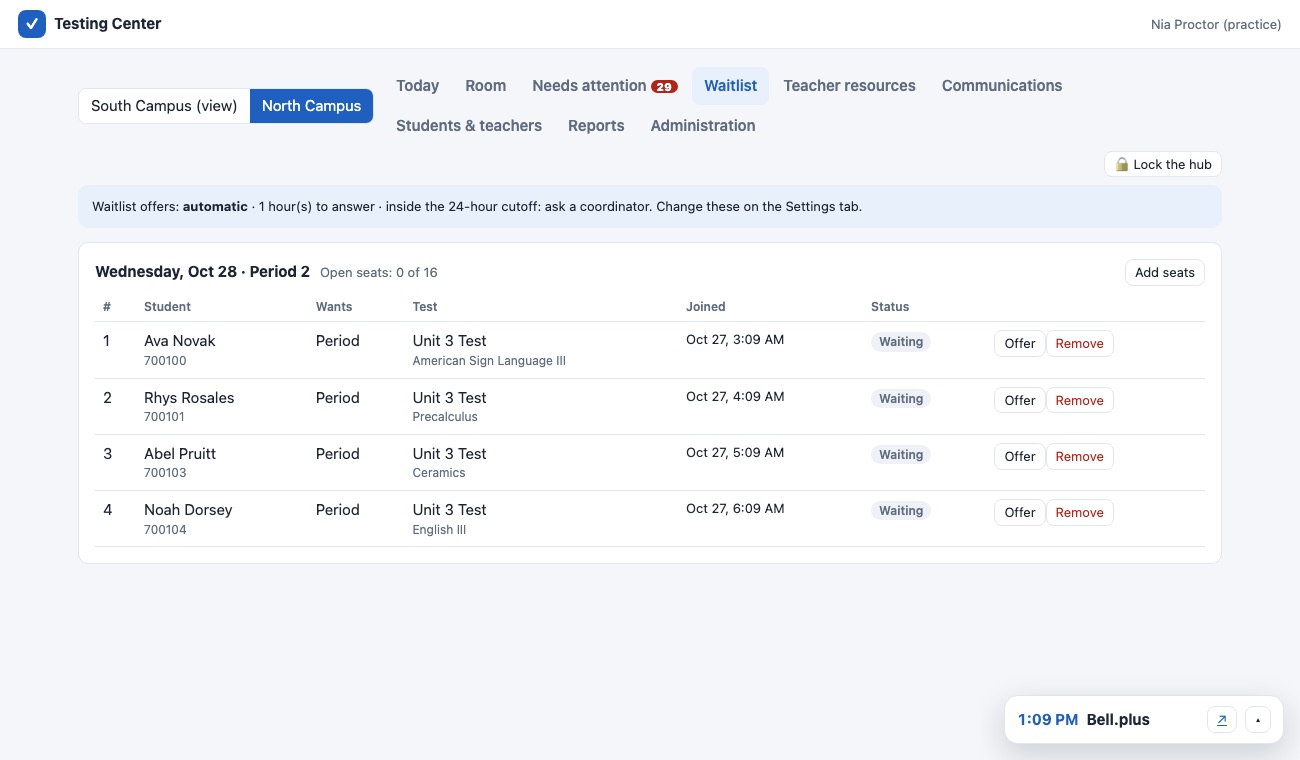
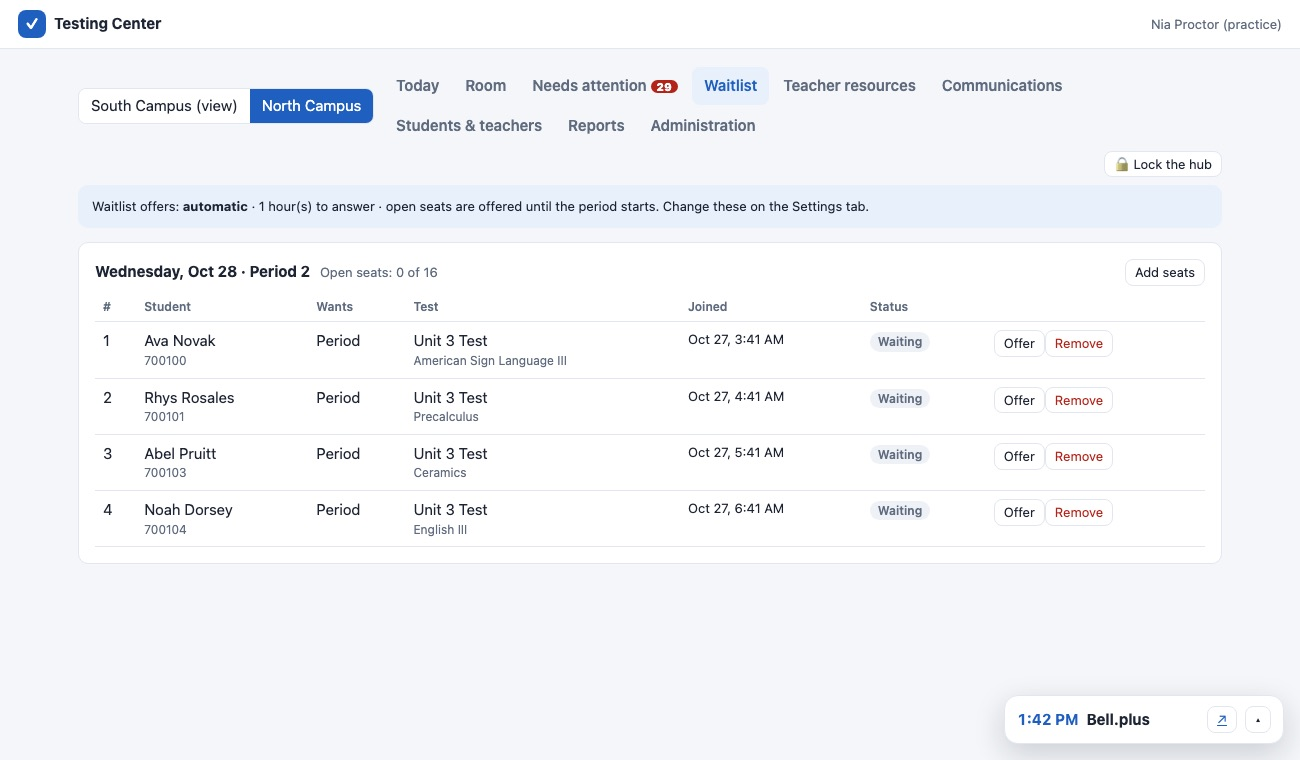
Testing Center tour: where student data lives (a Google Sheet in the school's Google account); no 24-hour rule; fresh demo

diff --git a/testing-center/demo.html b/testing-center/demo.html
@@ -259,7 +259,7 @@ body.withside .wrap { margin-right: 240px; }
 // LTHS Testing Center: the server core (tabs, settings, who is signed in, dates, setup, the web page).
 // Other server files: IC.gs (the Infinite Campus import from the IC_Raw_Import tab), Room.gs (the room's numbered desks), Roster.gs (roster import), Booking.gs (seats, appointments, waitlist), Tests.gs (tests, resources,
 // readiness, emails), Dashboard.gs (the coordinator dashboard). Read CHANGES.md first.
-var VERSION = '0.9';
+var VERSION = '0.10';
 var CAMPUSES = ['S', 'N'];          // S = South Campus (grades 9-10), N = North Campus (grades 11-12)
 
 // ---------- the tabs (each one is a table; the header row names the columns; code reads columns by header, not position)
@@ -299,7 +299,7 @@ var DEFAULTS = [
   ['Testing Center email', '', '', 'Reply-to address on emails (empty: the account that runs the app).'],
   ['Student booking in this app', 'Off', 'Off', 'Off while students still sign up in SignUpGenius (import those appointments instead). On: students book here.'],
   ['Days ahead students can book', '14', '14', 'How far ahead the calendar goes.'],
-  ['Book at least this many hours ahead', '24', '24', 'The booking cutoff. Coordinators can still book after it.'],
+  ['Book at least this many hours ahead', '0', '0', '0 (Colleen’s rule): students can book until the period starts, by that day’s bell schedule. A number of hours makes an earlier cutoff. Coordinators can always book.'],
   ['No walk-ins during periods', '4, 5', '4, 5', 'Coordinators get a warning when adding a walk-in during these periods.'],
   ['Most upcoming appointments per student', '', '', 'Empty: no limit.'],
   ['Booking purposes', 'Makeup test, Retake, Finish a test I started', 'Makeup test, Retake, Finish a test I started', 'The choices students see (comma list). Add "Other" to allow other purposes.'],
@@ -430,7 +430,7 @@ function setting_(key, campus) { var r = settingRows_().filter(function (s) { re
 function settingNum_(key, campus, dflt) { var v = parseFloat(setting_(key, campus)); return isNaN(v) ? dflt : v; }
 function campusConf_(c) {
   return { code: c, name: campusName_(c), where: setting_('Testing Center location', c), booking: yes_(setting_('Student booking in this app', c)),
-    daysAhead: settingNum_('Days ahead students can book', c, 14), cutoffH: settingNum_('Book at least this many hours ahead', c, 24),
+    daysAhead: settingNum_('Days ahead students can book', c, 14), cutoffH: settingNum_('Book at least this many hours ahead', c, 0),
     noWalkins: list_(setting_('No walk-ins during periods', c)), maxUpcoming: settingNum_('Most upcoming appointments per student', c, 0),
     purposes: list_(setting_('Booking purposes', c)), waitlist: yes_(setting_('Waitlist', c)), offerMode: /approve/i.test(setting_('Waitlist offers', c)) ? 'approve' : 'auto',
     offerHours: settingNum_('Hours to answer a waitlist offer', c, 1), quiet: setting_('Quiet hours', c), insideCutoff: /allow/i.test(setting_('Offers inside the booking cutoff', c)) ? 'allow' : 'ask',
@@ -577,6 +577,10 @@ function setupSheet() {
   MEMO_ = {};
   var have = rows_('Settings').map(function (r) { return r.key; }), add = DEFAULTS.filter(function (d) { return have.indexOf(d[0]) < 0; });
   insertMany_('Settings', add.map(function (d) { return { key: d[0], S: d[1], N: d[2], help: d[3] }; }));
+  if (!PropertiesService.getDocumentProperties().getProperty('cutoff0')) {          // 0.10: no 24-hour rule; booking is open until the period starts
+    rows_('Settings').forEach(function (r) { if (r.key === 'Book at least this many hours ahead') { var d = DEFAULTS.filter(function (x) { return x[0] === r.key; })[0]; update_('Settings', r, { S: str_(r.S) === '24' ? '0' : r.S, N: str_(r.N) === '24' ? '0' : r.N, help: d[3] }); } });
+    PropertiesService.getDocumentProperties().setProperty('cutoff0', '1');
+  }
   if (!rows_('Testing Periods').length) insertMany_('Testing Periods', samplePeriods_());
   if (!rows_('Bell Schedules').length) insertMany_('Bell Schedules', sampleBells_());
   ScriptApp.getProjectTriggers().forEach(function (t) { if (t.getHandlerFunction() === 'tick' || t.getHandlerFunction() === 'morning') ScriptApp.deleteTrigger(t); });
@@ -1204,7 +1208,7 @@ function api_slots(from) {
       return { period: p, label: s.label, open: s.open, why: s.why, start: s.start, end: s.end, aEnd: s.aEnd, bStart: s.bStart, ab: s.ab, free: s.free, cap: s.cap, soon: tooSoon_(s, c),
         have: cf.have, conflict: cf.conflict ? cf.conflict.course + (cf.conflict.teacher ? ' with ' + cf.conflict.teacher : '') : '' };
     }) };
-    if (day.periods.some(function (p) { return p.open && !p.soon; })) days.push(day);          // a day that's all inside the cutoff isn't shown
+    if (day.periods.some(function (p) { return p.open && !p.soon; })) days.push(day);          // a day with nothing left to book (all started, or inside the cutoff) isn't shown
   }
   return { days: days, next: d <= end ? d : '' };
 }
@@ -1231,7 +1235,7 @@ function book_(w, sid, req, staff) {
     var s = slot_(campus, d, period), half = normHalf_(s, req.half);
     if (!s.open) throw new Error('The Testing Center is closed then' + (s.why ? ' (' + s.why + ')' : '') + '.');
     if (d < today_() || (s.startMs && s.startMs < now_().getTime() && !staff)) throw new Error('That period has already started.');
-    if (!staff && tooSoon_(s, campus)) throw new Error('Appointments have to be made at least ' + conf.cutoffH + ' hours ahead. Ask the Testing Center if they can fit you in.');
+    if (!staff && tooSoon_(s, campus)) throw new Error(conf.cutoffH ? 'Appointments have to be made at least ' + conf.cutoffH + ' hours ahead. Ask the Testing Center if they can fit you in.' : 'That period has already started. Pick a later one.');
     if (!fits_(s, half)) return { full: true, slot: slotBrief_(s) };
     var mine = rows_('Appointments').filter(function (a) { return str_(a.sid) === sid && ACTIVE_APPT.test(a.status); });
     if (mine.some(function (a) { return day_(a.date) === d && str_(a.period) === period; })) throw new Error('You already have an appointment then.');
@@ -2547,7 +2551,7 @@ function api_clearPractice() {
 </script>
 </head>
 <body><div id="demoBar" style="position:sticky;top:0;z-index:60;background:#18203a;color:#fff;font:500 14px/1.4 system-ui,sans-serif;padding:8px 16px;display:flex;gap:10px;align-items:center;flex-wrap:wrap">
-<b>Demo · made-up students · nothing is saved</b><span style="opacity:.75">See it as:</span>
+<b>Demo · made-up students · nothing is saved</b><span style="background:#1a7f4b;border-radius:999px;padding:2px 10px">🔒 In the real app, all student data stays in a Google Sheet in the school’s Google account</span><span style="opacity:.75">See it as:</span>
 <a data-as="coord" style="color:#fff">Coordinator</a><a data-as="ncoord" style="color:#fff">North coordinator</a><a data-as="teacher" style="color:#fff">Teacher</a><a data-as="student" style="color:#fff">Student</a><a data-as="coord&amp;lock=1" style="color:#fff">Hub password screen</a>
 <span style="flex:1"></span><a href="./" style="color:#ffe066">← Tour</a></div>
 <script>(function(){var q=location.search;[].forEach.call(document.querySelectorAll('#demoBar a[data-as]'),function(a){a.href='demo.html?as='+a.getAttribute('data-as');if(q.indexOf('as='+a.getAttribute('data-as').split('&')[0])>=0&&(q.indexOf('lock=1')>=0)===(a.getAttribute('data-as').indexOf('lock')>=0))a.style.textDecoration='none',a.style.fontWeight='700';});})();</script>
@@ -2722,7 +2726,7 @@ function bkNext() {
 function bkSlot(day, p) {
   if (!p.open) return '<div class="slot closed"><b style="min-width:80px">' + esc(p.label) + '</b><span class="small">' + esc(p.why || 'Closed') + '</span></div>';
   var time = '<div style="min-width:120px"><b>' + esc(p.label) + '</b><div class="small mute">' + hm(p.start) + '–' + hm(p.end) + '</div></div>';
-  if (p.soon) return '<div class="slot closed">' + time + '<span class="small">Too soon to book (' + SH.cutoffH + ' hours ahead)</span></div>';
+  if (p.soon) return '<div class="slot closed">' + time + '<span class="small">' + (SH.cutoffH ? 'Too soon to book (' + SH.cutoffH + ' hours ahead)' : 'Already started') + '</span></div>';
   var hint = p.conflict ? '<div class="small" style="color:var(--warn)">⚠ You have ' + esc(p.conflict) + '</div>' : p.have.length ? '<div class="small mute">You have ' + p.have.map(function (x) { return esc(x.course) + (x.half ? ' (' + x.half + ')' : ''); }).join(' / ') + '</div>' : '', warn = '';
   var btns = '';
   if (p.ab) {
@@ -3088,7 +3092,7 @@ function coDraft(id, send) { call(send ? 'api_sendDraft' : 'api_skipDraft', id).
 // ---------- D. Waitlist
 function coWaitlist() {
   var w = CO.dash.waitlist, ed = CO.dash.edit;
-  var out = '<div class="banner info small">Waitlist offers: <b>' + (CO.dash.conf.offerMode === 'auto' ? 'automatic' : 'coordinator approves first') + '</b> · ' + CO.dash.conf.offerHours + ' hour(s) to answer · inside the ' + CO.dash.conf.cutoffH + '-hour cutoff: ' + (CO.dash.conf.insideCutoff === 'ask' ? 'ask a coordinator' : 'offer anyway') + '. Change these on the Settings tab.</div>';
+  var out = '<div class="banner info small">Waitlist offers: <b>' + (CO.dash.conf.offerMode === 'auto' ? 'automatic' : 'coordinator approves first') + '</b> · ' + CO.dash.conf.offerHours + ' hour(s) to answer' + (CO.dash.conf.cutoffH ? ' · inside the ' + CO.dash.conf.cutoffH + '-hour cutoff: ' + (CO.dash.conf.insideCutoff === 'ask' ? 'ask a coordinator' : 'offer anyway') : ' · open seats are offered until the period starts') + '. Change these on the Settings tab.</div>';
   if (!w.length) return out + '<div class="card empty">No one is waiting.</div>';
   w.forEach(function (g) {
     var free = g.ab ? 'Open: A ' + Math.max(0, g.free.A) + ' · B ' + Math.max(0, g.free.B) : 'Open seats: ' + Math.max(0, g.free.all);

diff --git a/testing-center/index.html b/testing-center/index.html
@@ -40,6 +40,19 @@ header { padding-block: clamp(32px, 6vw, 64px) 8px; }
 section { padding-block: clamp(36px, 6vw, 64px); border-top: 1px solid var(--line); }
 section > .wrap > .intro { display: grid; gap: 10px; margin-bottom: 28px; }
 .facts { display: grid; grid-template-columns: repeat(auto-fit, minmax(200px, 1fr)); gap: 12px; margin-top: 22px; }
+.data { display: grid; grid-template-columns: minmax(0, 1fr) minmax(0, 1.05fr); gap: 28px; align-items: center; }
+.ws { border: 2px dashed var(--ok); border-radius: 18px; padding: 18px; display: grid; gap: 12px; background: color-mix(in srgb, var(--ok) 6%, var(--card)); }
+.ws > .lab { font: 600 .78rem/1 var(--body); letter-spacing: .1em; text-transform: uppercase; color: var(--ok); }
+.tile2 { background: var(--card); border: 1px solid var(--line); border-radius: 12px; padding: 12px 14px; display: grid; gap: 6px; }
+.tile2 b { font-family: var(--display); font-size: 1.05rem; }
+.tabs2 { display: flex; flex-wrap: wrap; gap: 6px; }
+.tabs2 span { font-size: .78rem; background: var(--shot-bg); border: 1px solid var(--line); border-radius: 6px; padding: 2px 8px; color: var(--soft); }
+.who { display: flex; gap: 8px; flex-wrap: wrap; justify-content: center; }
+.who span { background: var(--card); border: 1px solid var(--line); border-radius: 999px; padding: 4px 12px; font-size: .9rem; }
+.arrow { text-align: center; color: var(--soft); font-size: .85rem; }
+.no { color: var(--soft); font-size: .9rem; text-align: center; }
+.no s { opacity: .8; }
+@media (max-width: 820px) { .data { grid-template-columns: 1fr; } }
 .fact { background: var(--card); border: 1px solid var(--line); border-radius: 14px; padding: 14px 16px; }
 .fact b { display: block; font-family: var(--display); font-size: 1.15rem; }
 .fact span { color: var(--soft); font-size: .92rem; }
@@ -77,6 +90,7 @@ footer { padding-block: 40px 60px; color: var(--soft); font-size: .9rem; border-
   </div>
   <div class="wrap">
     <div class="facts">
+      <div class="fact" style="border-color:var(--ok)"><b>🔒 Data stays at school</b><span>Every student record lives in one Google Sheet in the school's own Google account. Nothing goes to an outside company.</span></div>
       <div class="fact"><b>No cost</b><span>Google Sheets + Apps Script in the district's own Google Workspace. No per-user fees.</span></div>
       <div class="fact"><b>School sign-in</b><span>Everyone uses their school Google account; the app knows who is a student, teacher or coordinator.</span></div>
       <div class="fact"><b>Two campuses</b><span>South (Library, Room D) and North (Room 31) run separately, with their own seats, closures and staff.</span></div>
@@ -84,6 +98,32 @@ footer { padding-block: 40px 60px; color: var(--soft); font-size: .9rem; border-
     </div>
   </div>
 </header>
+
+<section id="data">
+  <div class="wrap data">
+    <div class="intro" style="display:grid;gap:12px">
+      <p class="eyebrow">Where student data lives</p>
+      <h2>All student information stays in a Google Sheet in the school's Google account</h2>
+      <p>Students, schedules, appointments, teacher instructions and the activity log are rows in <span class="mark">one Google Sheet owned by a school Google account</span> in the district's Google Workspace. The app itself is Google Apps Script attached to that same sheet.</p>
+      <ul style="margin:0;padding-left:1.2em;color:var(--soft)">
+        <li>No outside database, vendor or subscription: nothing is copied out of the school's Google account.</li>
+        <li>The sheet is shared only with Testing Center staff; students and teachers never open it. They see only what the app shows them, after signing in with their school account.</li>
+        <li>The district keeps control: it owns the account, and Google Workspace's own security, backups and admin controls apply.</li>
+        <li>Imports from Infinite Campus go straight into a tab of the same sheet.</li>
+      </ul>
+    </div>
+    <div>
+      <div class="who"><span>🎒 Students</span><span>🧑🏫 Teachers</span><span>🗂 Testing Center staff</span></div>
+      <p class="arrow">↓ sign in with their school Google account (@d204.lths.net / @lths.net) ↓</p>
+      <div class="ws"><span class="lab">🔒 School Google account · district Google Workspace</span>
+        <div class="tile2"><b>Testing Center app</b><span class="note">Google Apps Script. Checks who you are on every request: students see only their own records, teachers only their own students, staff need the hub password.</span></div>
+        <div class="tile2"><b>📗 Testing Center Google Sheet</b><span class="note">Shared only with Testing Center staff. Every record is a row:</span>
+          <div class="tabs2"><span>Students</span><span>Teachers</span><span>Sections</span><span>Enrollments</span><span>Appointments</span><span>Sessions</span><span>Waitlist</span><span>Assessments</span><span>Rooms</span><span>Outbox</span><span>Audit</span><span>IC_Raw_Import</span><span>Settings</span></div></div>
+      </div>
+      <p class="no" style="margin-top:10px">Outside services that get student data: <b>none</b></p>
+    </div>
+  </div>
+</section>
 
 <section id="students">
   <div class="wrap">
@@ -94,7 +134,7 @@ footer { padding-block: 40px 60px; color: var(--soft); font-size: .9rem; border-
     </div>
     <div class="screen flip">
       <figure><img src="img/stu-slots.jpg" alt="Choosing a day and period, with seats left and the student's class each period" loading="lazy"></figure>
-      <div class="txt"><h3>Pick a class, a test, a time</h3><ul><li>Their real classes in one dropdown: no typing teacher names.</li><li>Only open periods, with seats left. Closed periods (like North's Monday 6th) and the 24-hour cutoff are enforced.</li><li>Lunch/study hall periods can be booked as the A half, the B half or the whole period, and seats are counted for each half.</li><li>Full? Join the waitlist. An open seat is <b>offered</b> by email for a short time; the student signs in to accept.</li></ul></div>
+      <div class="txt"><h3>Pick a class, a test, a time</h3><ul><li>Their real classes in one dropdown: no typing teacher names.</li><li>Only open periods, with seats left. Closed periods (like North's Monday 6th) are enforced, and a period stays open until it starts by that day's bell schedule.</li><li>Lunch/study hall periods can be booked as the A half, the B half or the whole period, and seats are counted for each half.</li><li>Full? Join the waitlist. An open seat is <b>offered</b> by email for a short time; the student signs in to accept.</li></ul></div>
     </div>
     <div class="screen">
       <figure><img src="img/stu-conflict.jpg" alt="The academic class conflict warning" loading="lazy"></figure>
@@ -159,7 +199,7 @@ footer { padding-block: 40px 60px; color: var(--soft); font-size: .9rem; border-
   <div class="wrap">
     <div class="intro"><p class="eyebrow">Privacy and safety</p><h2>Designed for a district review</h2></div>
     <div class="two">
-      <div class="box"><h3>Where the data lives</h3><ul><li>One Google Sheet in the district's Google Workspace, shared only with Testing Center staff. No outside services.</li><li>The app is open only to school Google accounts; the server checks every request (students see only their own records; teachers only their own students).</li><li>Access codes and test links never reach students or student emails.</li><li>No IEP or 504 details are stored; the form has an extended-time line only.</li></ul></div>
+      <div class="box"><h3>Where the data lives</h3><ul><li>One Google Sheet in a school Google account in the district's Google Workspace, shared only with Testing Center staff. No outside services or databases.</li><li>The app is open only to school Google accounts; the server checks every request (students see only their own records; teachers only their own students).</li><li>Access codes and test links never reach students or student emails.</li><li>No IEP or 504 details are stored; the form has an extended-time line only.</li></ul></div>
       <div class="box"><h3>Safeguards</h3><ul><li>The coordinator hub needs a password (stored scrambled) on top of school sign-in; it locks after 6 hours.</li><li>Every sensitive change is logged (who, what, when).</li><li>Roster imports are previewed, backed up and reversible; a file that looks incomplete is held.</li><li>History is kept: appointments are never rewritten when schedules change.</li></ul></div>
     </div>
   </div>
